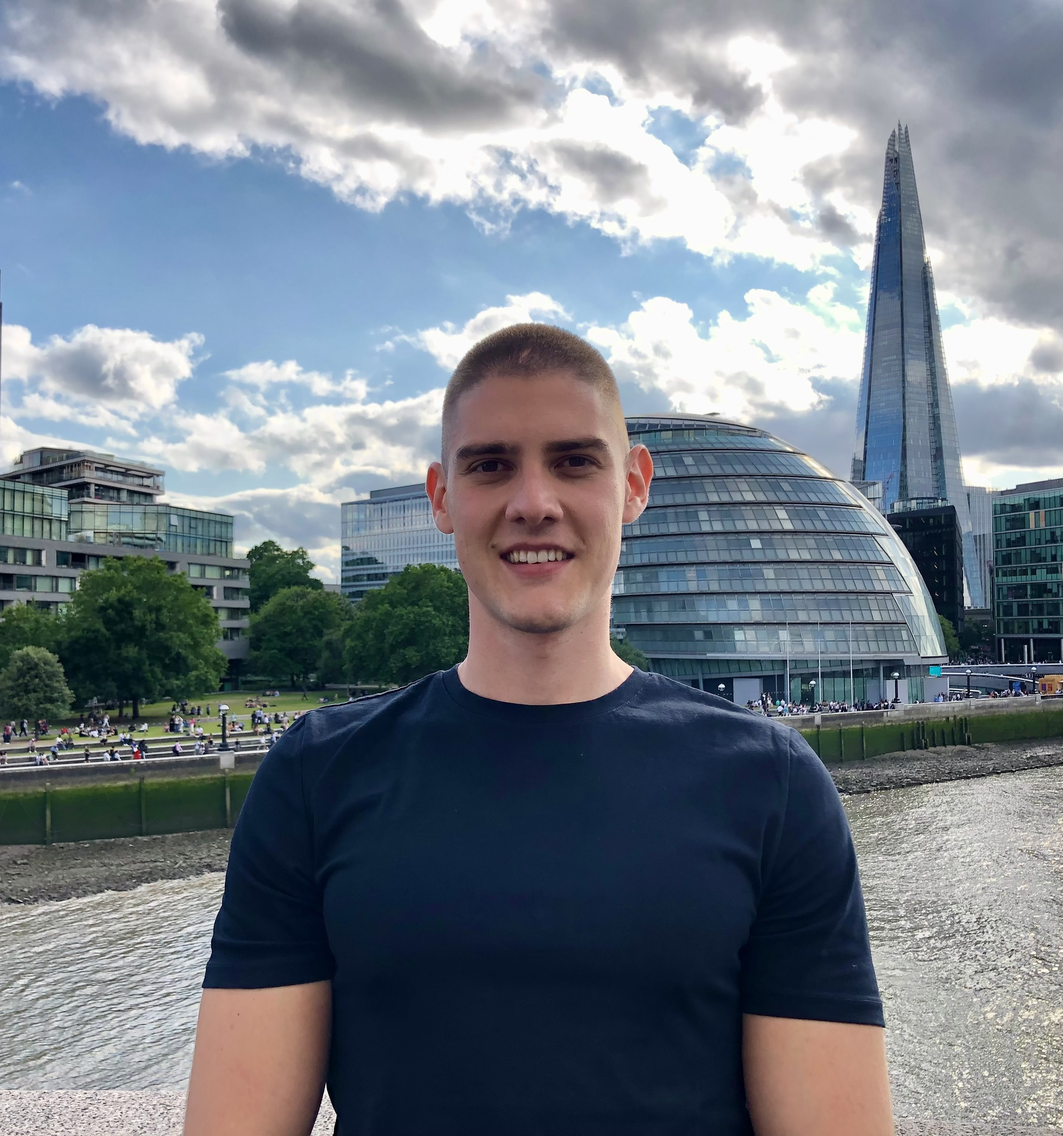
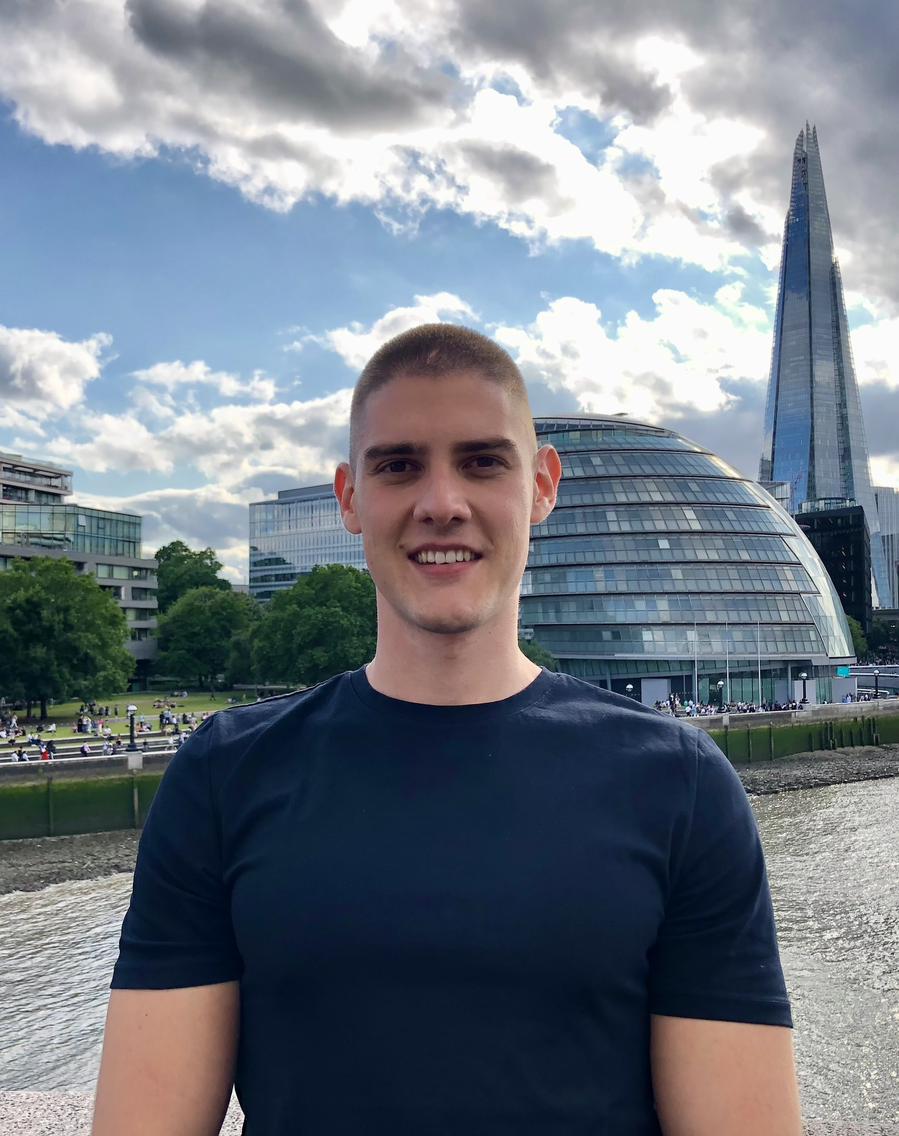
img cropped

diff --git a/_sass/_sidebar.scss b/_sass/_sidebar.scss
@@ -24,7 +24,6 @@
     }
   }
 
-
   @include breakpoint($x-large) {
     padding-right: 0;
   }
@@ -69,43 +68,45 @@
    Author profile and links
    ========================================================================== */
 
-.author__avatar {
-  display: table-cell;
-  vertical-align: top;
-  width: 36px;
-  // set width only, for non-square avatars
-  // height: 36px;
+
+div.author__avatar {
+  width: min(220px, 100%);     // malo uži
+  height: auto;                // visina se automatski prilagođava proporcijama
+  margin: 0 auto;
+  border-radius: 55% / 58%;   // manje ovalan (bliže krugu)
+  overflow: hidden;
+  background: transparent;
 
   @include breakpoint($large) {
-    display: block;
-    width: auto;
-    height: auto;
-  }
-
-  img {
-    max-width: 175px;
-    border-radius: 50%;
-
-    @include breakpoint($large) {
-      padding: 5px;
-      border: 1px solid $border-color;
-    }
+    padding: 5px;
+    border: 1px solid $border-color;
+    box-sizing: border-box;
   }
 }
 
-.author__content {
-  display: table-cell;
-  vertical-align: top;
-  padding-left: 15px;
-  padding-right: 25px;
-  line-height: 1;
+div.author__avatar {
+  width: min(220px, 100%);     // ostaje ista širina
+  height: auto;                // visina prati proporcije
+  margin: 0 auto;
+  border-radius: 57% / 55%;   // još manje ovalan, bliže krugu
+  overflow: hidden;
+  background: transparent;
 
   @include breakpoint($large) {
-    display: block;
-    width: 100%;
-    padding-left: 0;
-    padding-right: 0;
+    padding: 5px;
+    border: 1px solid $border-color;
+    box-sizing: border-box;
   }
+}
+
+div.author__avatar > img.author__avatar {
+  width: 100%;
+  height: auto;               // proporcionalno
+  display: block;
+  margin: 0;
+  border-radius: inherit;     // nasleđuje oval od roditelja
+  object-fit: cover;          // popunjava oval bez deformacije
+  background: transparent;
 }
 
 .author__name {
@@ -116,6 +117,7 @@
     margin-bottom: 10px;
   }
 }
+
 .sidebar .author__name {
   font-family: $sans-serif;
   font-size: $type-size-5;
@@ -136,7 +138,6 @@
   vertical-align: middle;
   font-family: $sans-serif;
   z-index: 10;
-  position: relative;
   cursor: pointer;
 
   li:last-child {

diff --git a/_sass/_masthead.scss b/_sass/_masthead.scss
@@ -46,6 +46,10 @@
   list-style-type: none;
   white-space: nowrap;
 
+  a {
+    color: $dark-gray !important;
+  }
+
   &--lg {
     padding-right: 2em;
     font-weight: 700;
